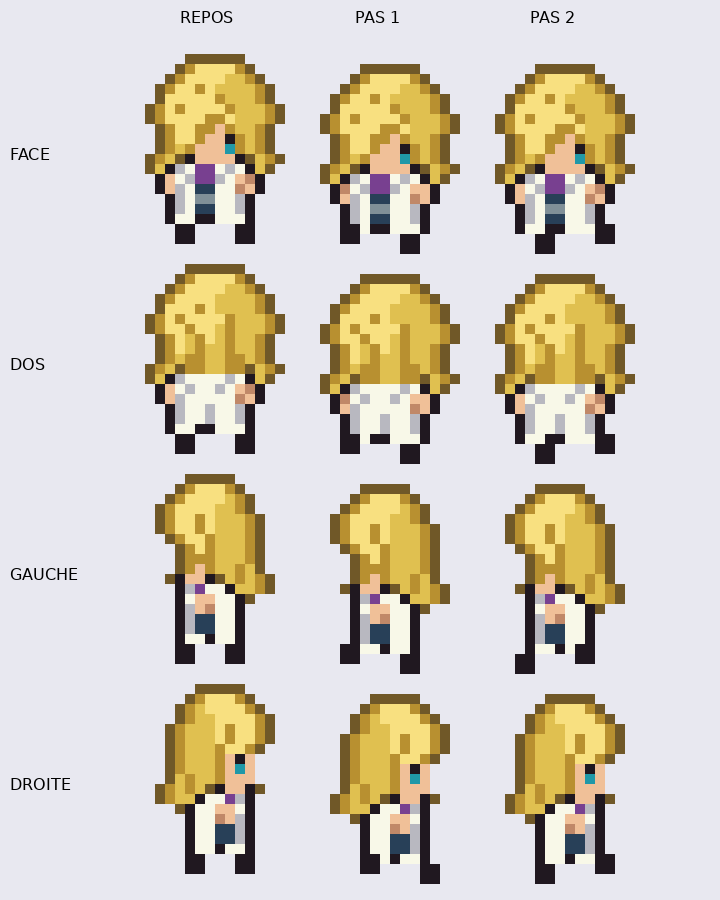
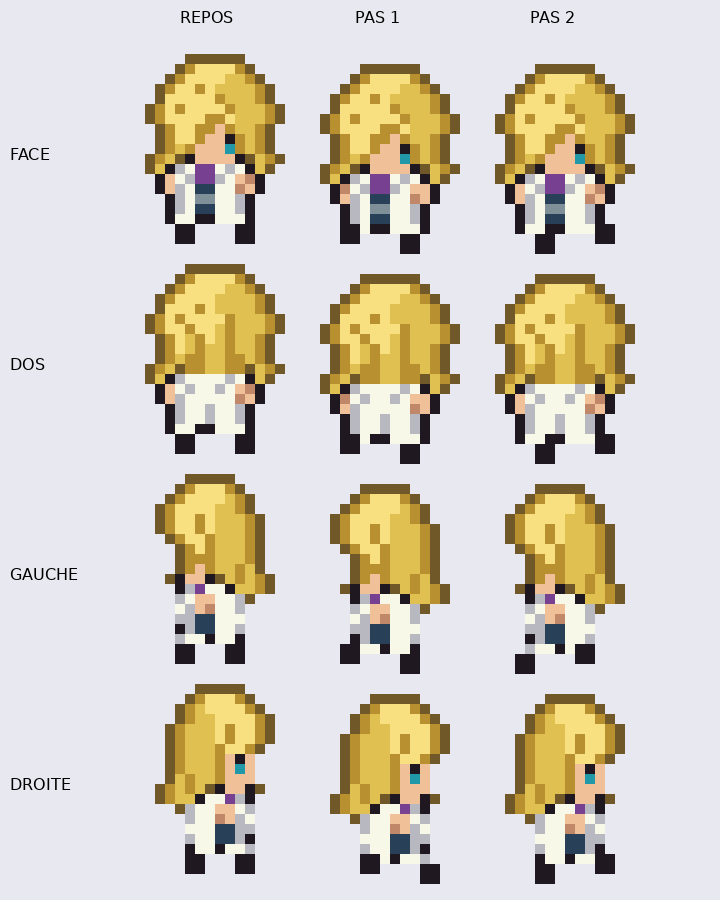
art: alléger les contours de blouse sur les profils d'Alyzon

diff --git a/docs/lavanville-zombie-night/phase-1/outils/creer_alyzon_base_red.py b/docs/lavanville-zombie-night/phase-1/outils/creer_alyzon_base_red.py
@@ -56,11 +56,11 @@ left=[
 '...OHSHYYHYO..',
 '..OKSSKOYHYHO.',
 '...KwPWWKYYHO.',
-'...KWSSWWKO...',
-'...KwSsWWK....',
-'...KwBBWWK....',
-'...KwBBWWK....',
-'...KWWKWWK....',
+'...wWSSWWwO...',
+'...WwSsWWw....',
+'...wwBBWWW....',
+'...KwBBWWw....',
+'...wWWKWWK....',
 '...KK...KK....',
 '...KK...KK....']
 right=[list(r[::-1]) for r in left]

diff --git a/docs/lavanville-zombie-night/phase-1/prototypes/alyzon-reprise-red/README.md b/docs/lavanville-zombie-night/phase-1/prototypes/alyzon-reprise-red/README.md
@@ -26,3 +26,7 @@ Quatre orientations × trois poses : repos et deux pas. La tête conserve exacte
[1 lines of base64/hex data omitted]
 
 Il s'agit d'un essai en RAM : pas d'inscription graphique permanente, de changement de carte, de scénario ou de sauvegarde. Les profils asymétriques sont sélectionnés avant les clips indépendants ; une future intégration devra conserver cette distinction. Les anciennes propositions restent archivées sans modification. La qualité artistique de cette nouvelle série reste à valider par le créateur.
+
+## Correction des bandes noires sur les profils
+
+Les longs contours verticaux de la blouse ont été interrompus sur les six poses de profil : sept ou huit pixels noirs par pose sont remplacés par le blanc et le gris déjà présents dans la palette. Les silhouettes, cheveux, visages, pieds, face et dos restent pixel à pixel inchangés. Les contours sombres ponctuels et les chaussures sont conservés. L'aperçu mGBA a été refait et les douze déplacements natifs passent à nouveau les contrôles.
